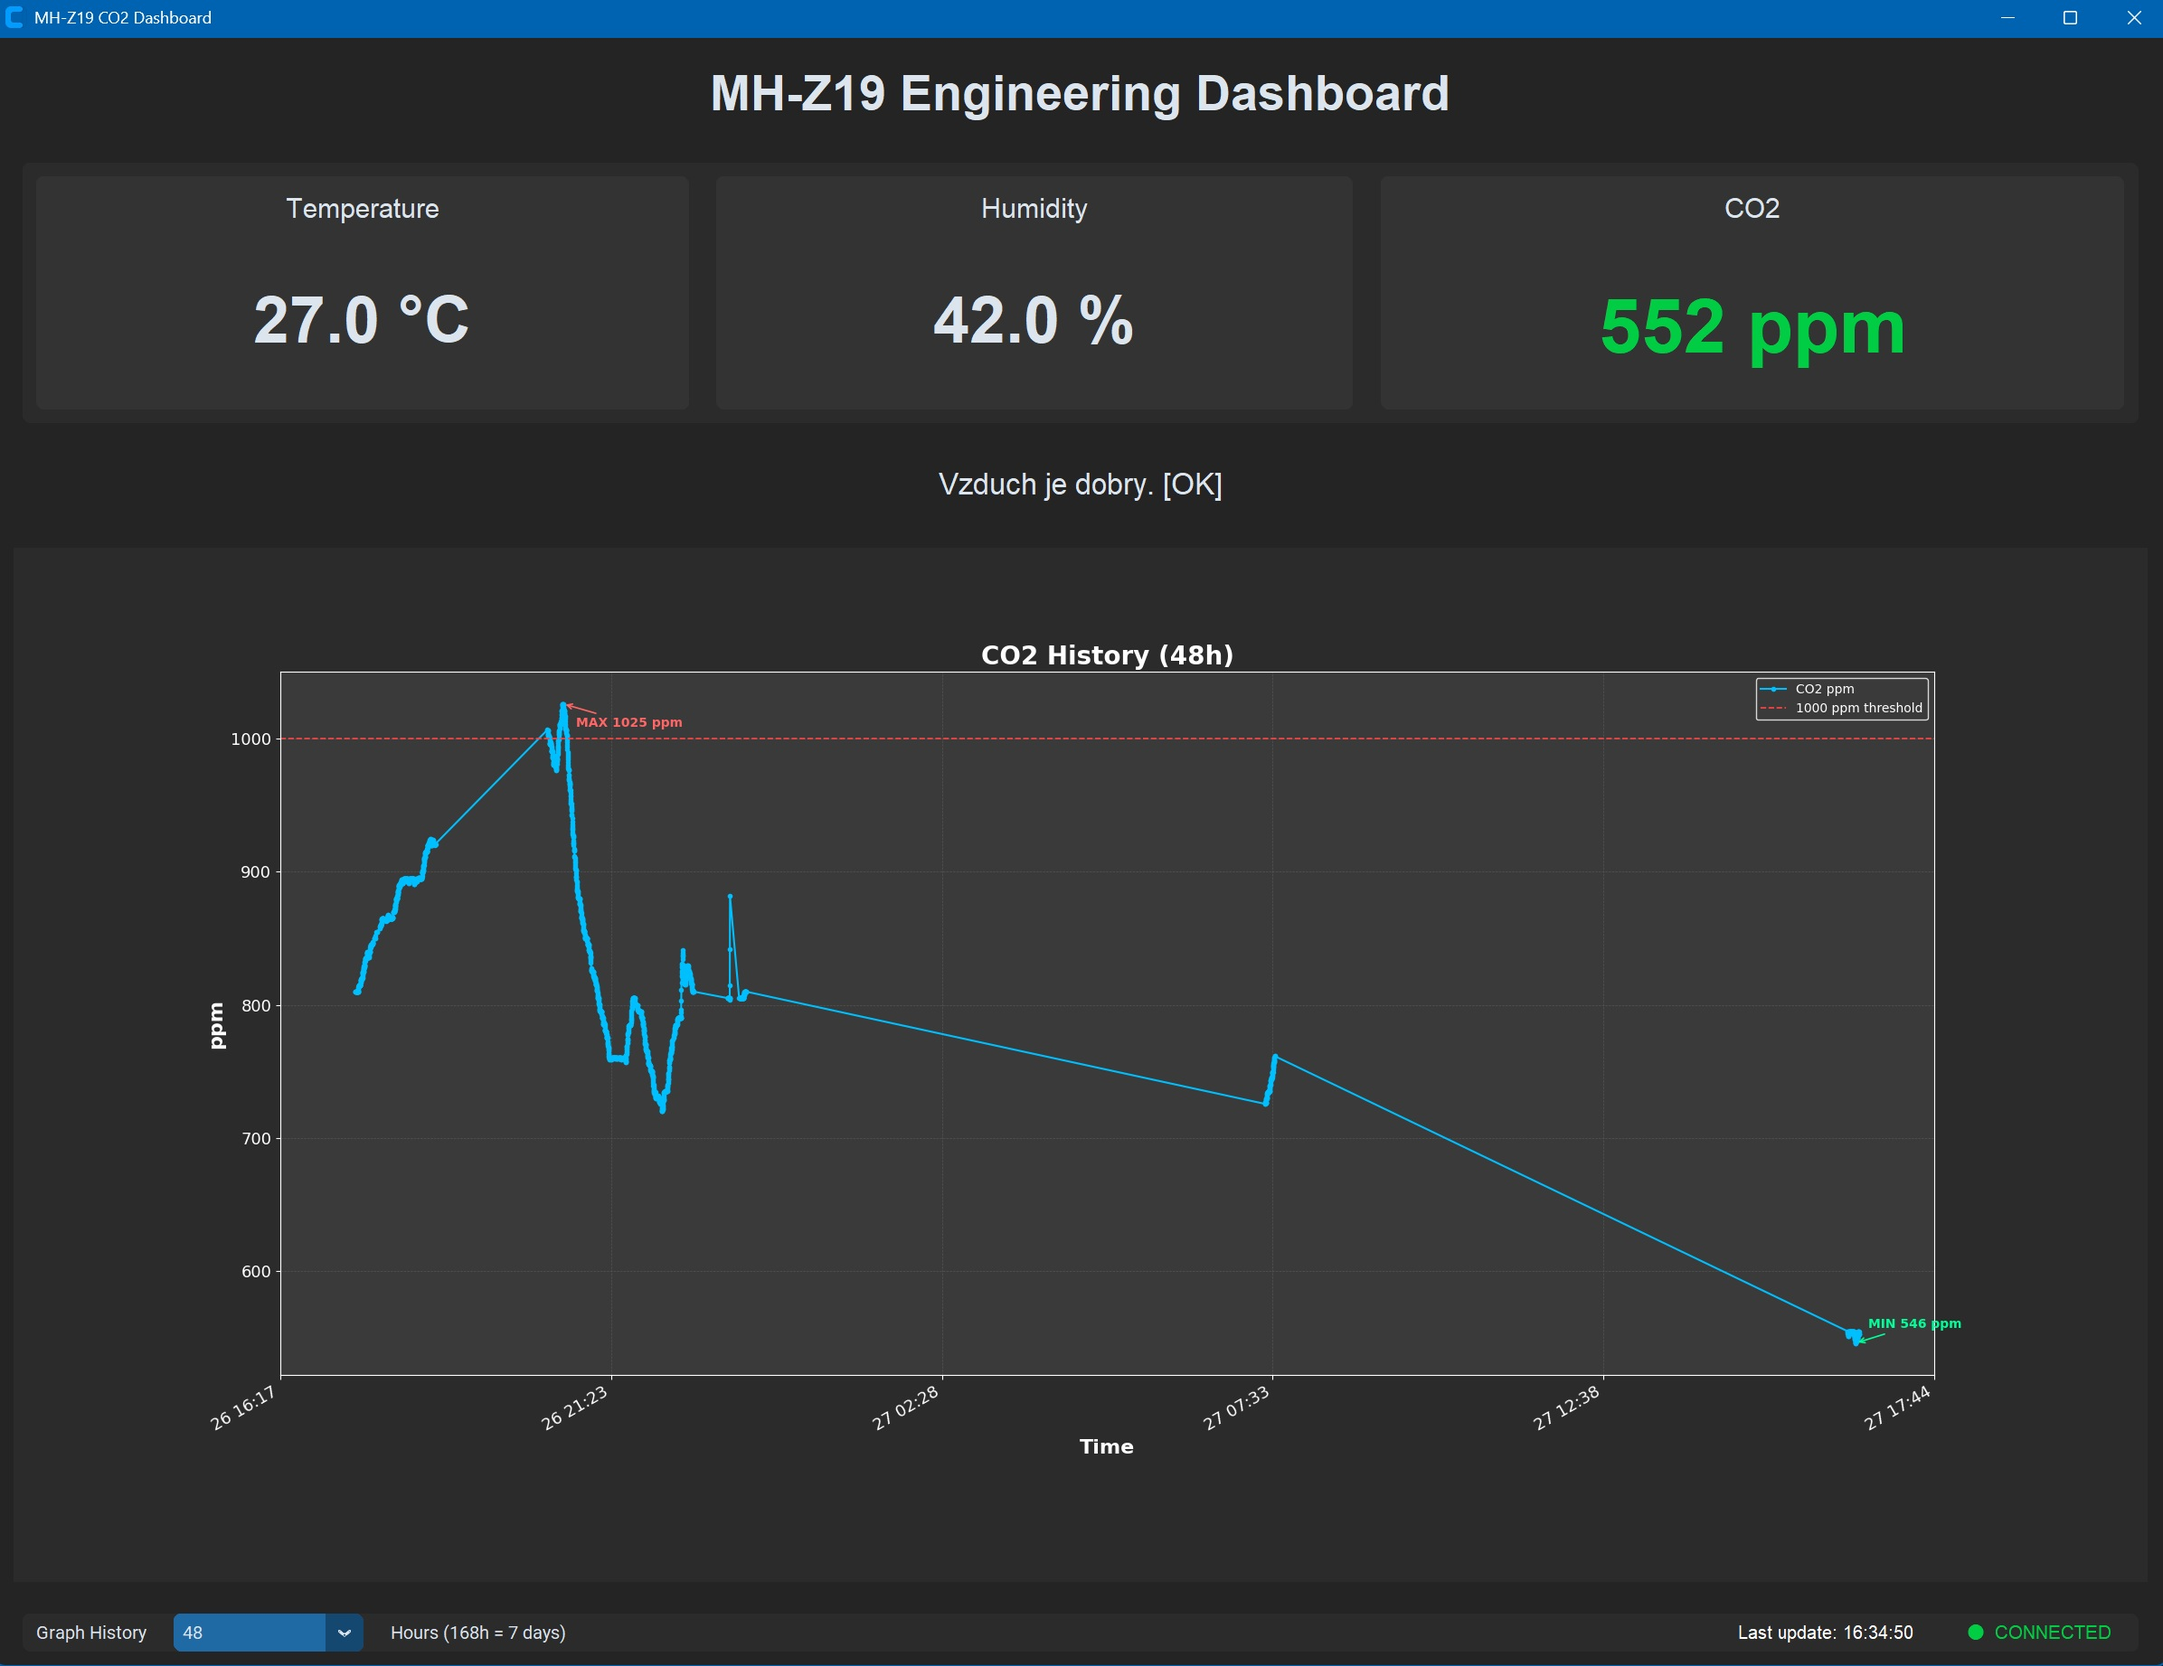
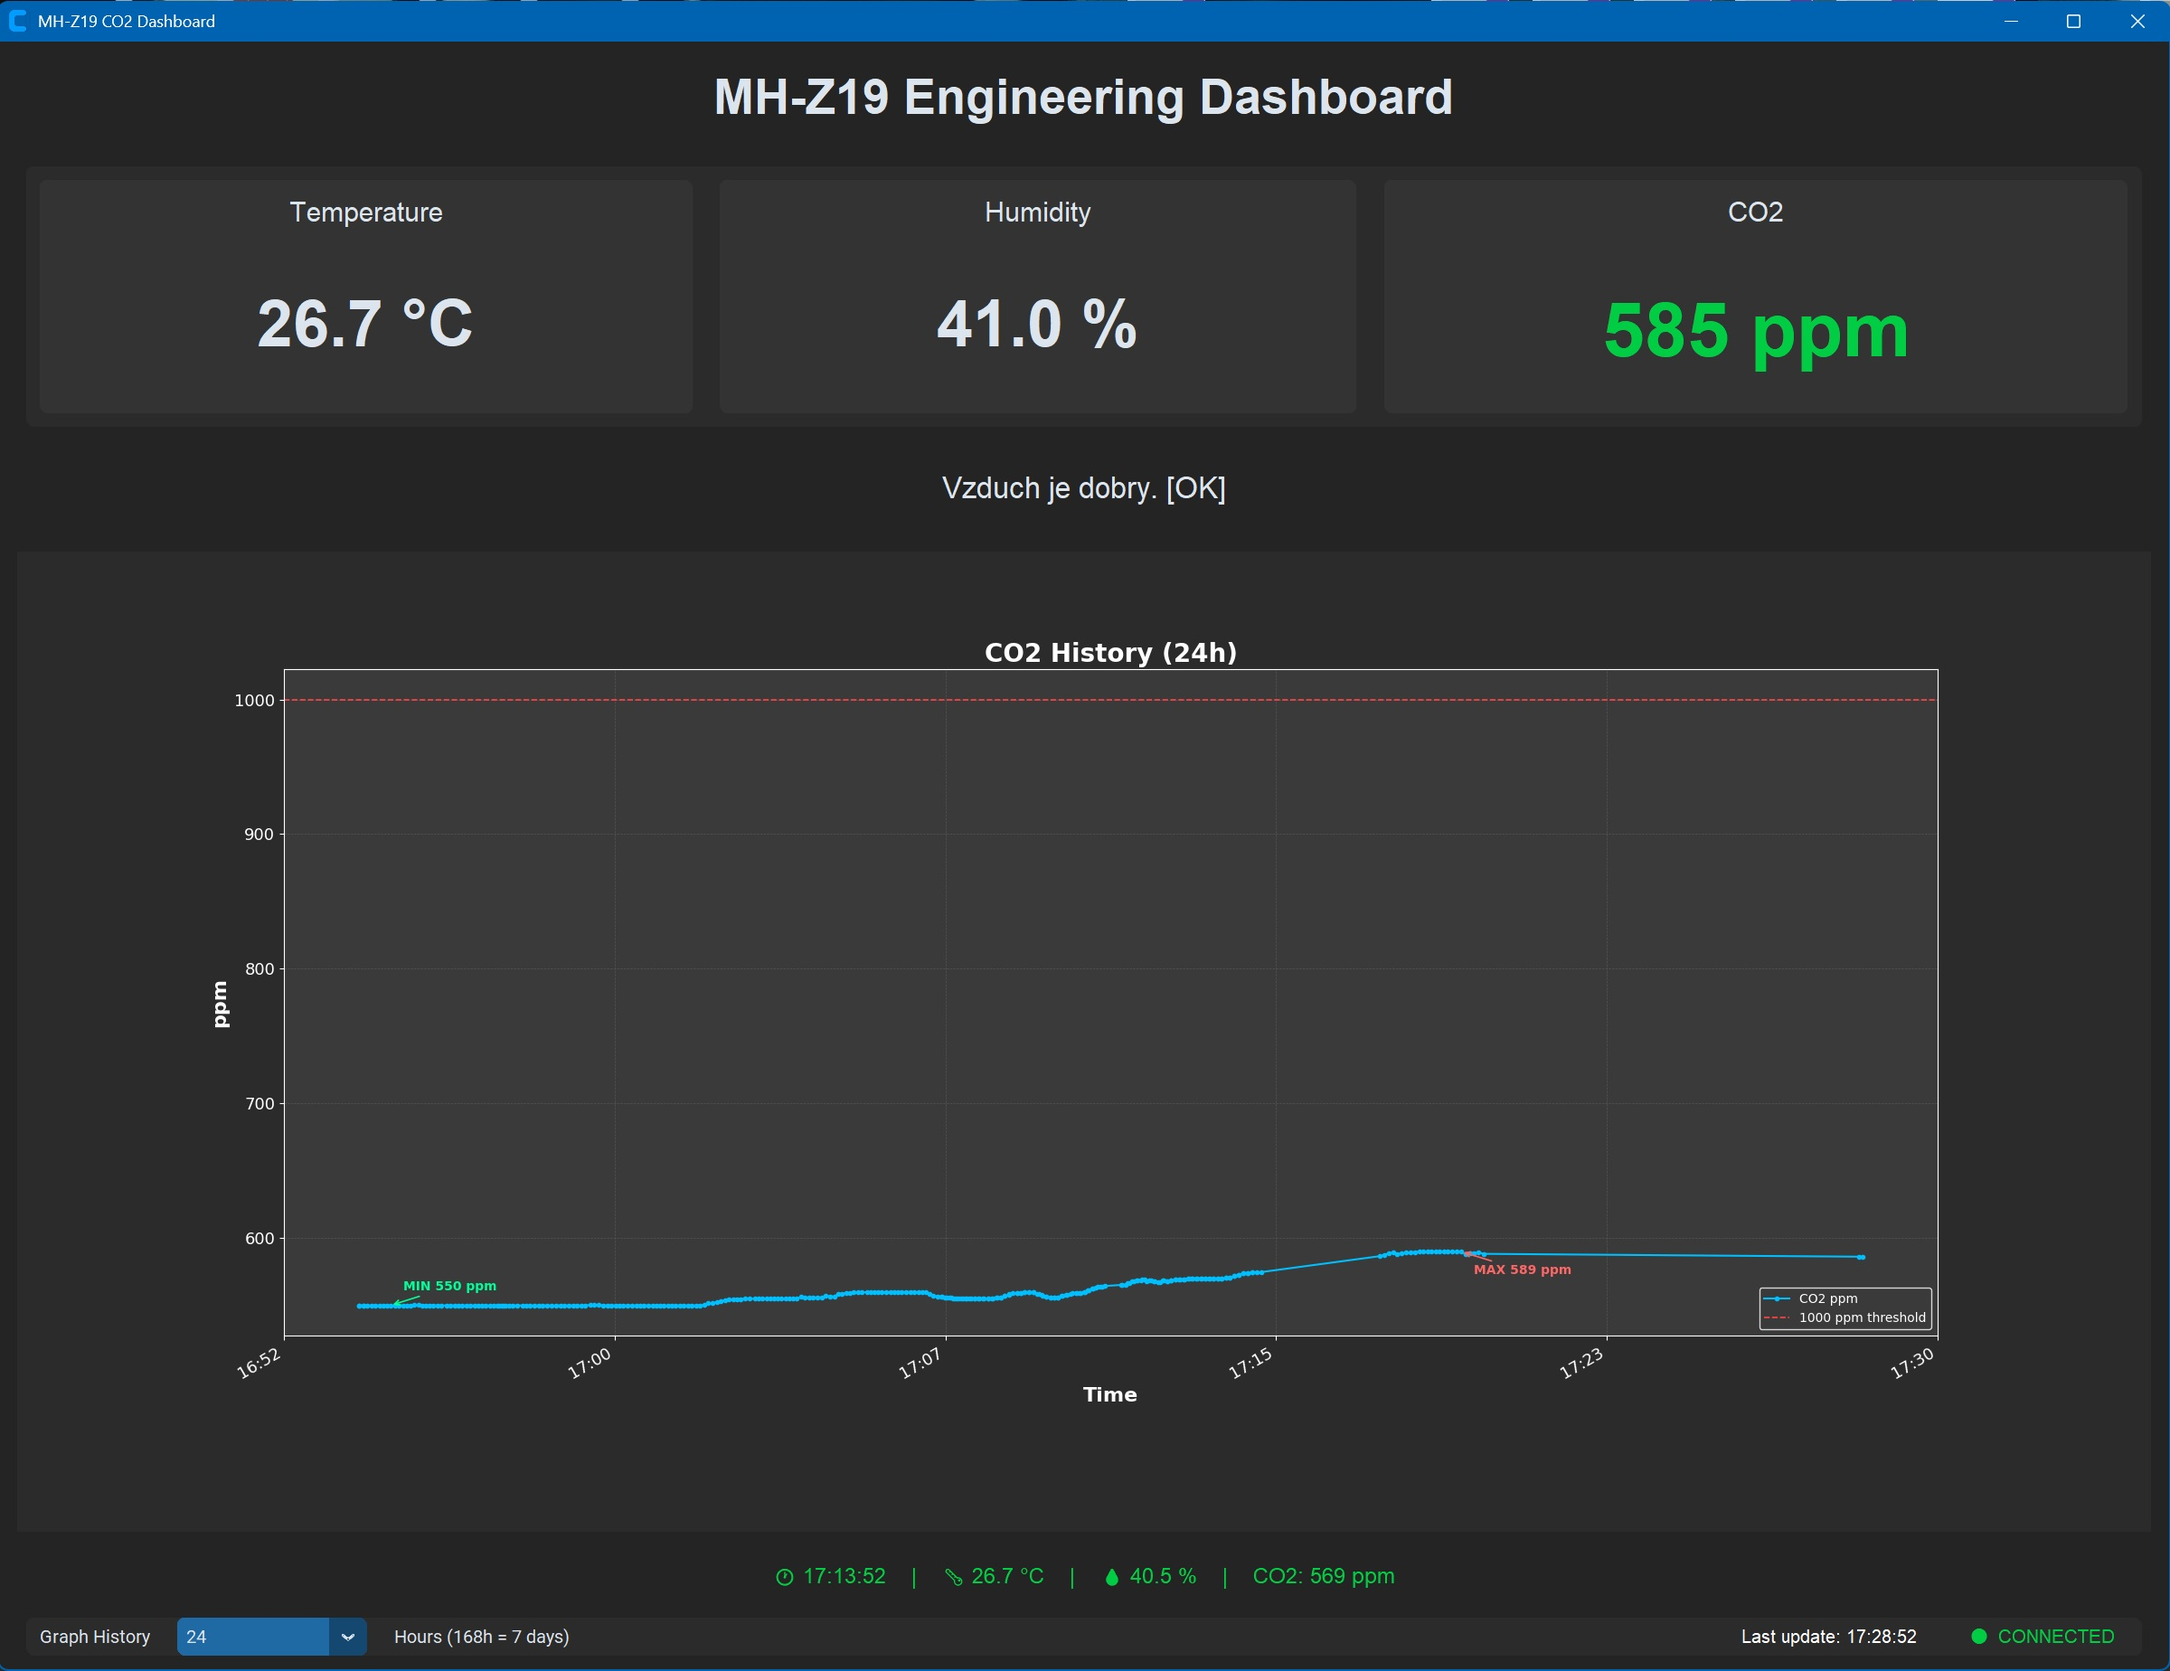
Update README to add figure with dashboard.

diff --git a/README.md b/README.md
@@ -261,6 +261,12 @@ or
 dashboard.exe
 ```
 
+
+<p align="center">
+  <img src="dashboard_screenshot.jpg" alt="Dashboard Screenshot" width="700"/>
+</p>
+
+
 ---
 
 # Dashboard Features
